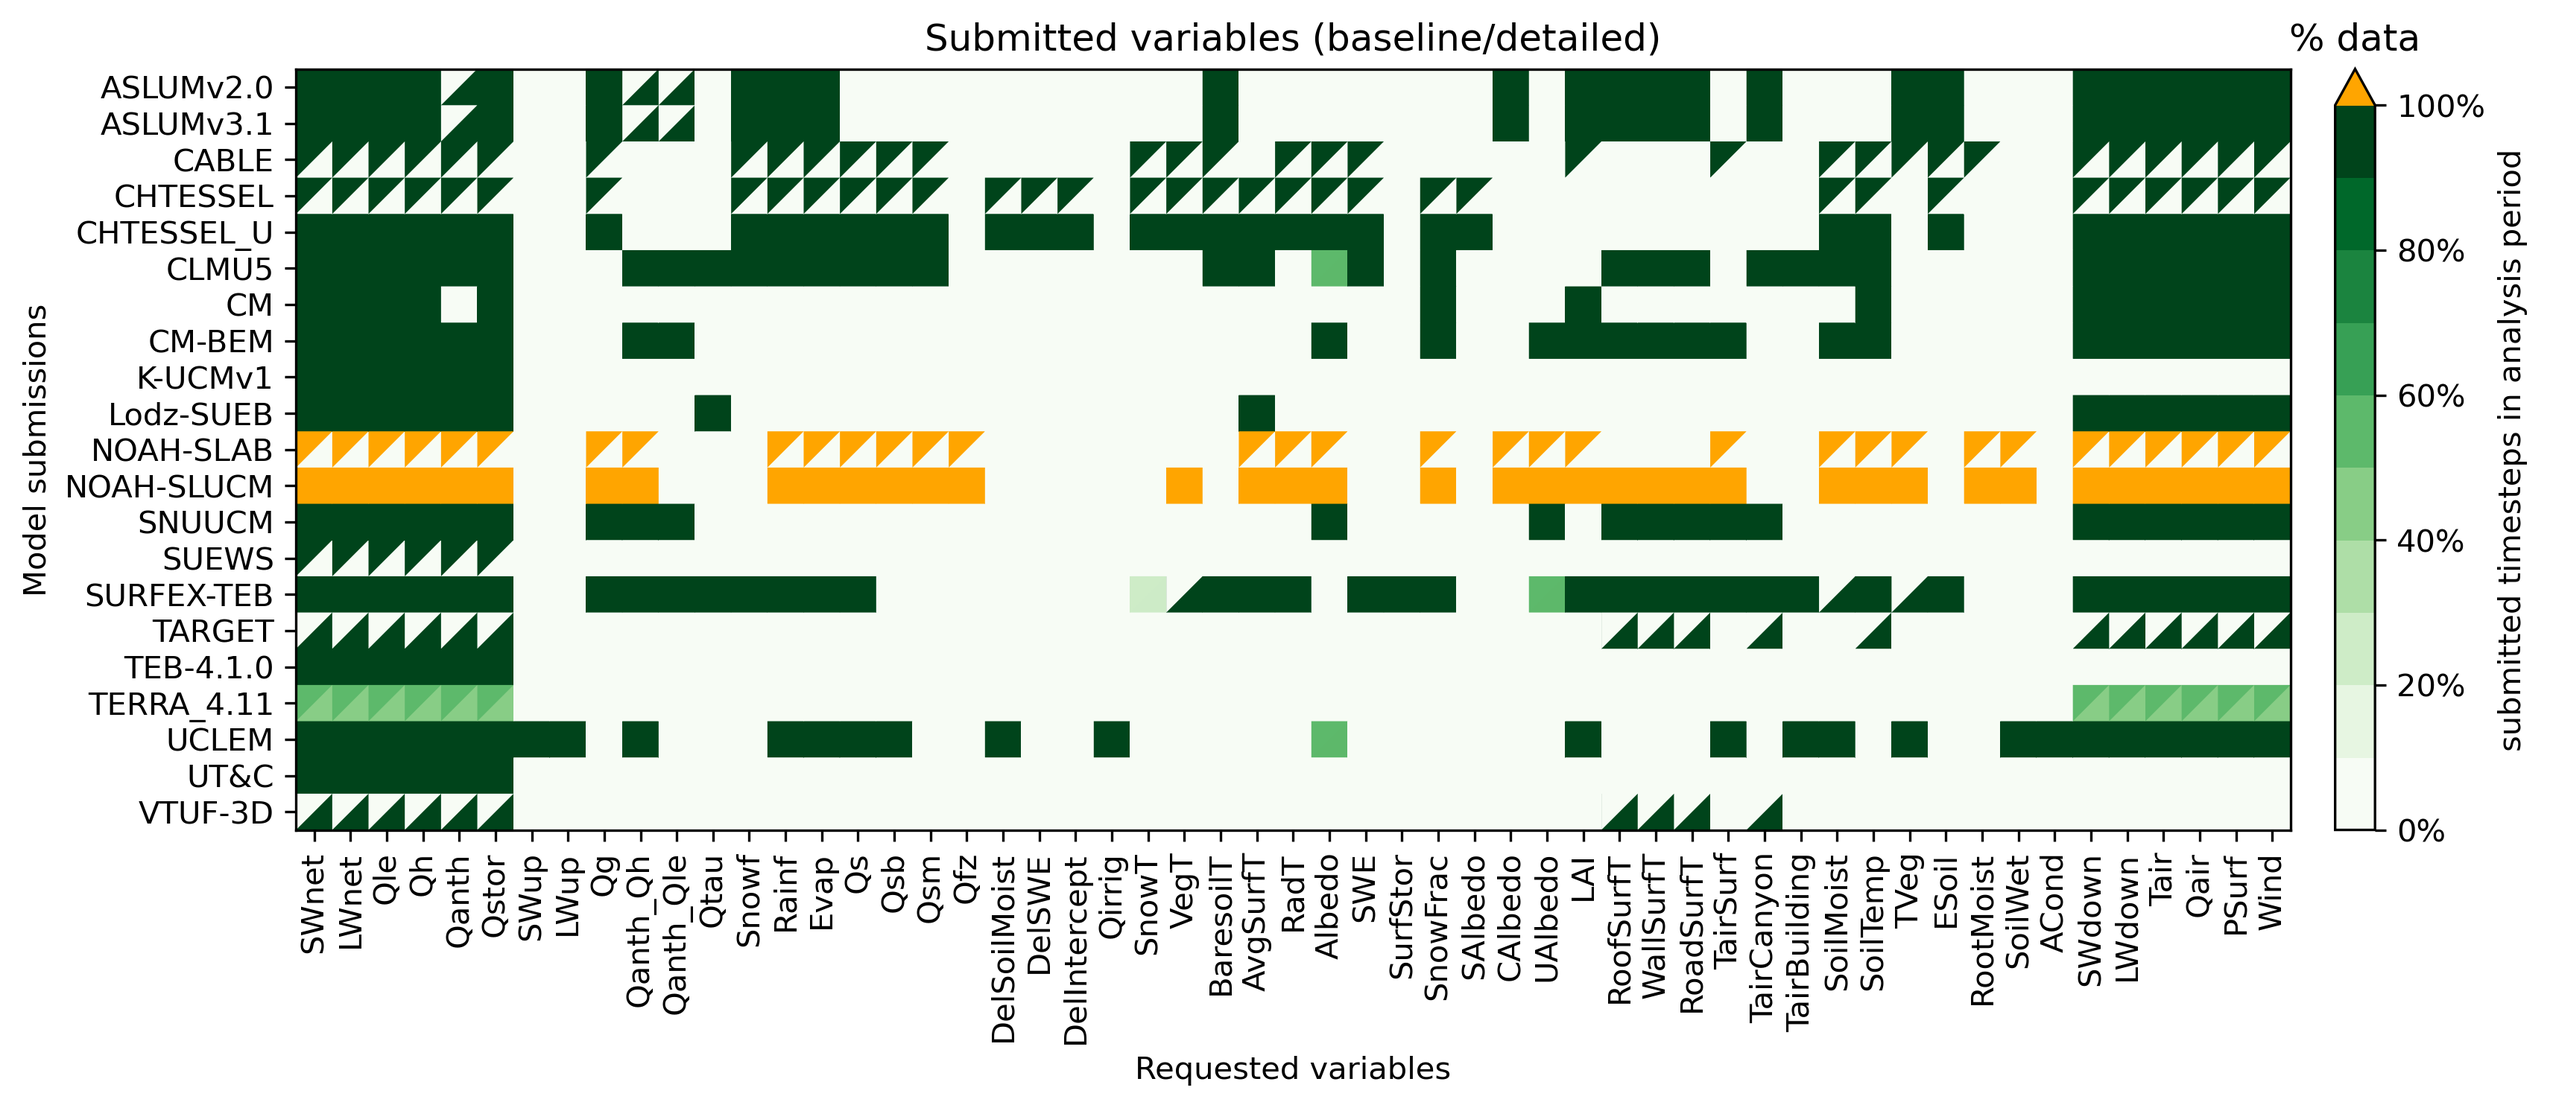
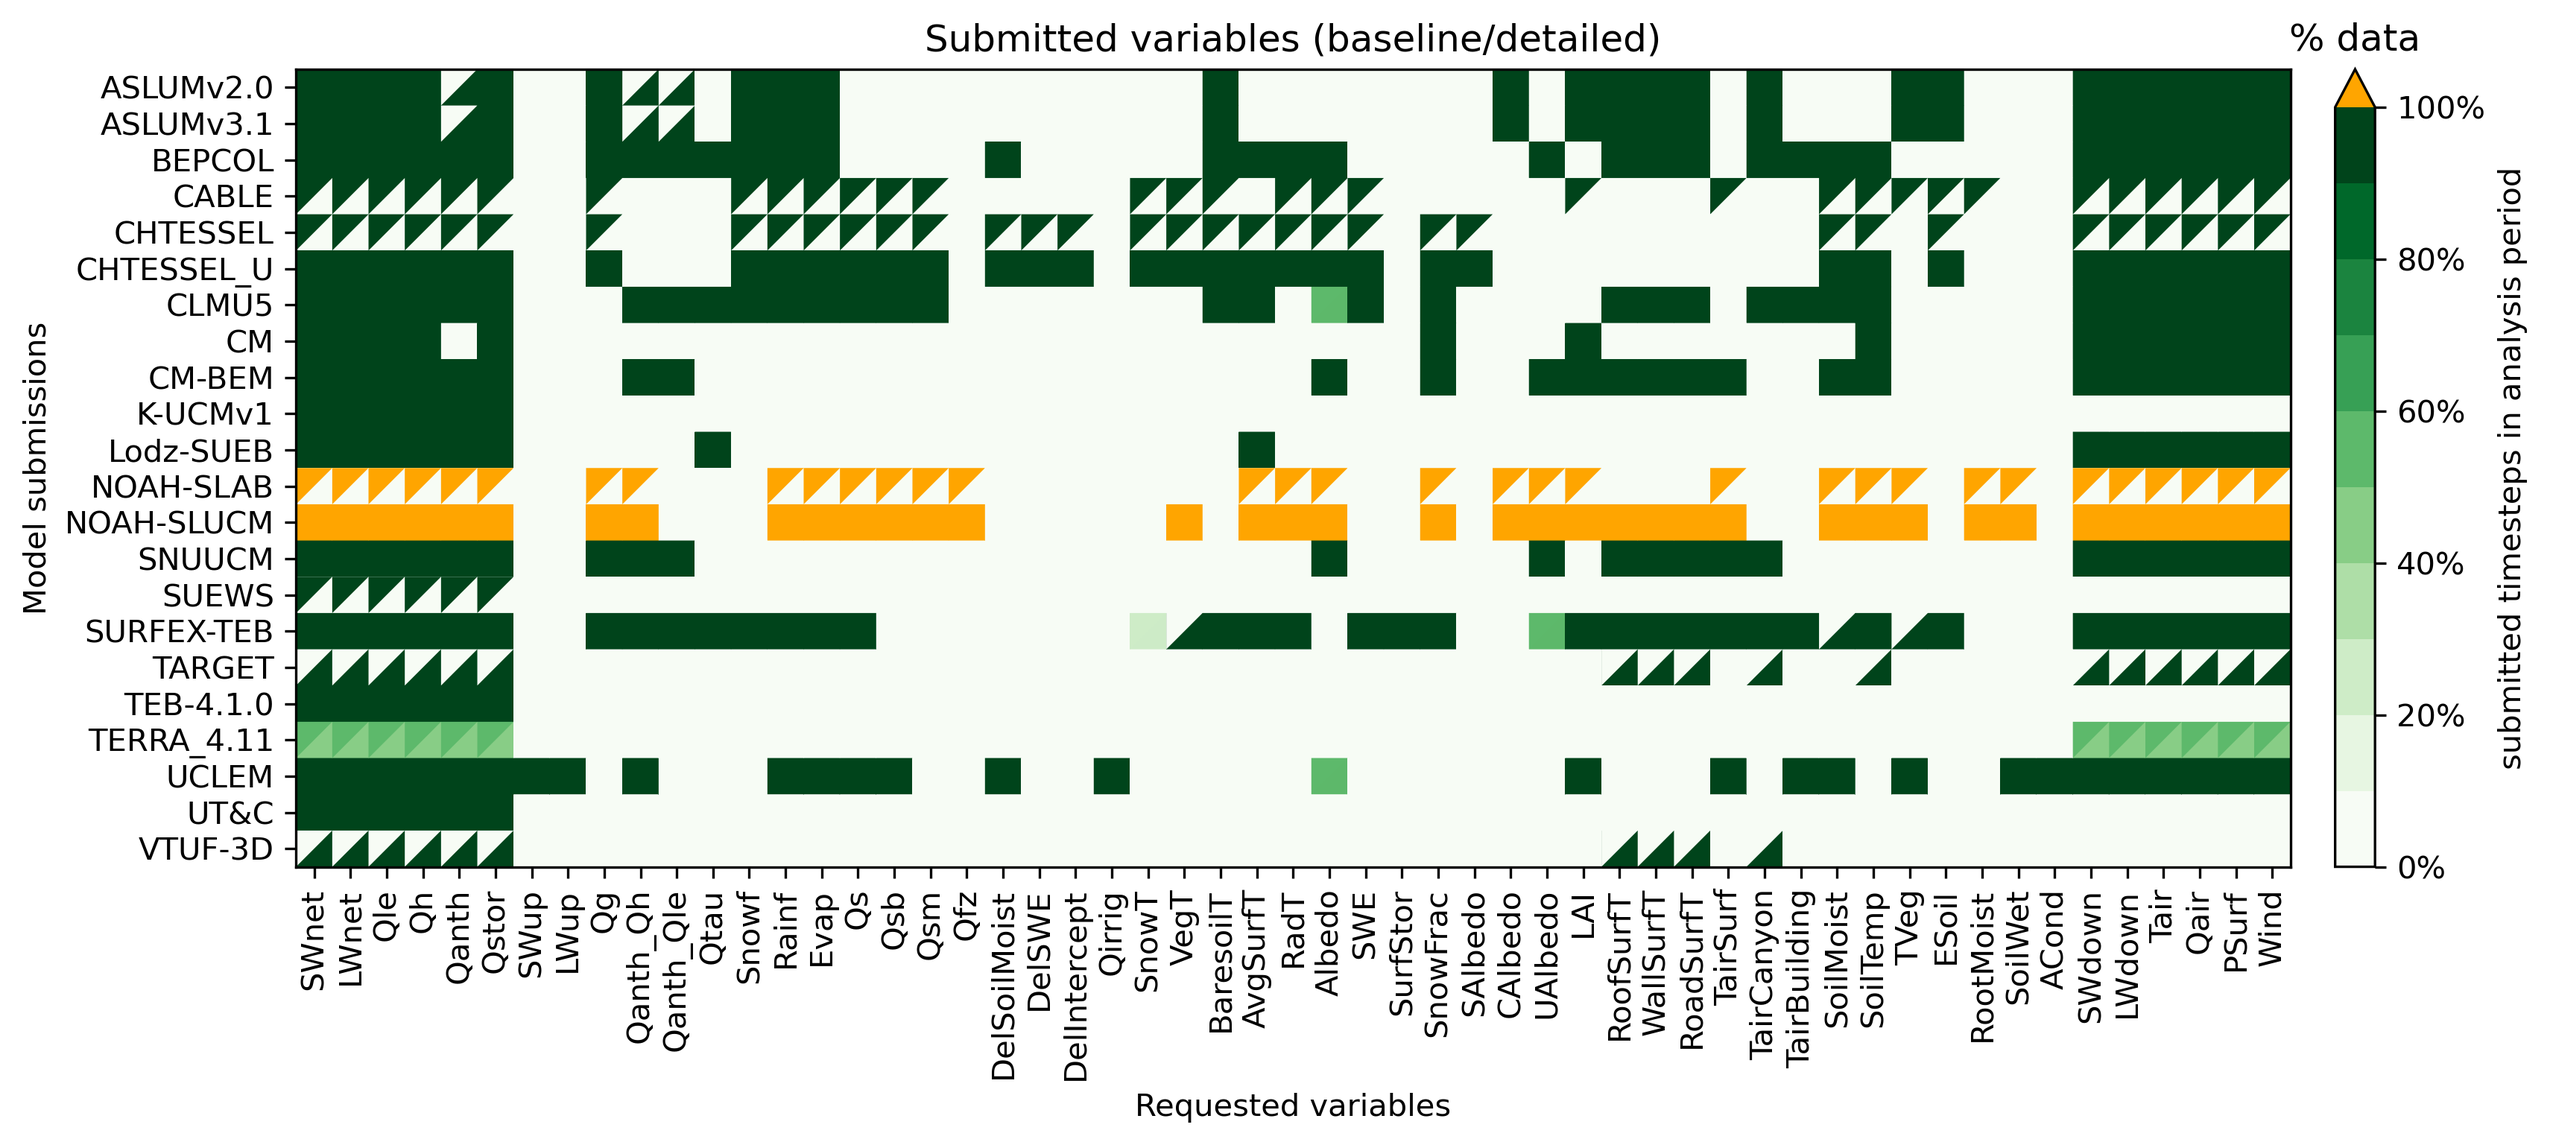
include BEPCOL

diff --git a/modelattrs/variable_definitions.md b/modelattrs/variable_definitions.md
@@ -1,60 +1,60 @@
 # Variable definitions
 
-| short_name   | long_name (positive direction)                      | units   |
-|:-------------|:----------------------------------------------------|:--------|
-| SWnet        | Net shortwave radiation (downward)                  | W/m2    |
-| LWnet        | Net longwave radiation (downward)                   | W/m2    |
-| Qle          | Latent heat flux (upward)                           | W/m2    |
-| Qh           | Sensible heat flux (upward)                         | W/m2    |
-| Qanth        | Anthropogenic heat flux (upward)                    | W/m2    |
-| Qstor        | Net storage heat flux in all materials (increase)   | W/m2    |
-| SWup         | Upwelling shortwave radiation flux (downward)       | W/m2    |
-| LWup         | Upwelling longwave radiation flux (upward)          | W/m2    |
-| Qg           | Ground heat flux (downward)                         | W/m2    |
-| Qanth_Qh     | Anthropogenic sensible heat flux (upward)           | W/m2    |
-| Qanth_Qle    | Anthropogenic latent heat flux (upward)             | W/m2    |
-| Qtau         | Momentum flux (downward)                            | N/m2    |
-| Snowf        | Snowfall rate (downward)                            | kg/m2/s |
-| Rainf        | Rainfall rate (downward)                            | kg/m2/s |
-| Evap         | Total evapotranspiration (upward)                   | kg/m2/s |
-| Qs           | Surface runoff (out of gridcell)                    | kg/m2/s |
-| Qsb          | Subsurface runoff (out of gridcell)                 | kg/m2/s |
-| Qsm          | Snowmelt (solid to liquid)                          | kg/m2/s |
-| Qfz          | Re-freezing of water in the snow (liquid to solid)  | kg/m2/s |
-| DelSoilMoist | Change in soil moisture (increase)                  | kg/m2   |
-| DelSWE       | Change in snow water equivalent (increase)          | kg/m2   |
-| DelIntercept | Change in interception storage (increase)           | kg/m2   |
-| Qirrig       | Anthropogenic water flux from irrigation (increase) | kg/m2/s |
-| SnowT        | Snow surface temperature                            | K       |
-| VegT         | Vegetation canopy temperature                       | K       |
-| BaresoilT    | Temperature of bare soil                            | K       |
-| AvgSurfT     | Average surface temperature (skin)                  | K       |
-| RadT         | Surface radiative temperature                       | K       |
-| Albedo       | Surface albedo                                      | 1       |
-| SWE          | Snow water equivalent                               | kg/m2   |
-| SurfStor     | Surface water storage                               | kg/m2   |
-| SnowFrac     | Snow covered fraction                               | 1       |
-| SAlbedo      | Snow albedo                                         | 1       |
-| CAlbedo      | Vegetation canopy albedo                            | 1       |
-| UAlbedo      | Urban canopy albedo                                 | 1       |
-| LAI          | Leaf area index                                     | 1       |
-| RoofSurfT    | Roof surface temperature (skin)                     | K       |
-| WallSurfT    | Wall surface temperature (skin)                     | K       |
-| RoadSurfT    | Road surface temperature (skin)                     | K       |
-| TairSurf     | Near surface air temperature (2m)                   | K       |
-| TairCanyon   | Air temperature in street canyon (bulk)             | K       |
-| TairBuilding | Air temperature in buildings (bulk)                 | K       |
-| SoilMoist    | Average layer soil moisture                         | kg/m2   |
-| SoilTemp     | Average layer soil temperature                      | K       |
-| TVeg         | Vegetation transpiration                            | kg/m2/s |
-| ESoil        | Bare soil evaporation                               | kg/m2/s |
-| RootMoist    | Root zone soil moisture                             | kg/m2   |
-| SoilWet      | Total soil wetness                                  | 1       |
-| ACond        | Aerodynamic conductance                             | m/s     |
-| SWdown       | Downward shortwave radiation at measurement height  | W/m2    |
-| LWdown       | Downward longwave radiation at measurement height   | W/m2    |
-| Tair         | Air temperature at measurement height               | K       |
-| Qair         | Specific humidity at measurement height             | 1       |
-| PSurf        | Air pressure at measurement height                  | Pa      |
-| Wind         | Wind speed at measurement height                    | m/s     |
-| alb          | implied albedo calculated from forcing              | 1       |
+| short_name   | long_name (positive direction)                      | units   |    min.    |      max.  :|
+|:-------------|:----------------------------------------------------|:--------|-----------:|------------:|
+| SWnet        | Net shortwave radiation (downward)                  | W/m2    |     0      |   1200      |
+| LWnet        | Net longwave radiation (downward)                   | W/m2    |  -500      |    510      |
+| Qle          | Latent heat flux (upward)                           | W/m2    |  -700      |    700      |
+| Qh           | Sensible heat flux (upward)                         | W/m2    |  -600      |    600      |
+| Qanth        | Anthropogenic heat flux (upward)                    | W/m2    |     0      |   1000      |
+| Qstor        | Net storage heat flux in all materials (increase)   | W/m2    |  -800      |    800      |
+| SWup         | Upwelling shortwave radiation flux (downward)       | W/m2    |     0      |   1360      |
+| LWup         | Upwelling longwave radiation flux (upward)          | W/m2    |     0      |   1000      |
+| Qg           | Ground heat flux (downward)                         | W/m2    |  -500      |    500      |
+| Qanth_Qh     | Anthropogenic sensible heat flux (upward)           | W/m2    |     0      |   1000      |
+| Qanth_Qle    | Anthropogenic latent heat flux (upward)             | W/m2    |     0      |   1000      |
+| Qtau         | Momentum flux (downward)                            | N/m2    |  -100      |    100      |
+| Snowf        | Snowfall rate (downward)                            | kg/m2/s |     0      |      0.0085 |
+| Rainf        | Rainfall rate (downward)                            | kg/m2/s |     0      |      0.02   |
+| Evap         | Total evapotranspiration (upward)                   | kg/m2/s |    -0.0003 |      0.0003 |
+| Qs           | Surface runoff (out of gridcell)                    | kg/m2/s |     0      |      5      |
+| Qsb          | Subsurface runoff (out of gridcell)                 | kg/m2/s |     0      |      5      |
+| Qsm          | Snowmelt (solid to liquid)                          | kg/m2/s |     0      |      0.005  |
+| Qfz          | Re-freezing of water in the snow (liquid to solid)  | kg/m2/s |     0      |      0.005  |
+| DelSoilMoist | Change in soil moisture (increase)                  | kg/m2   | -2000      |   2000      |
+| DelSWE       | Change in snow water equivalent (increase)          | kg/m2   | -2000      |   2000      |
+| DelIntercept | Change in interception storage (increase)           | kg/m2   |  -100      |    100      |
+| Qirrig       | Anthropogenic water flux from irrigation (increase) | kg/m2/s |     0      |      0.02   |
+| SnowT        | Snow surface temperature                            | K       |   213      |    280      |
+| VegT         | Vegetation canopy temperature                       | K       |   213      |    333      |
+| BaresoilT    | Temperature of bare soil                            | K       |   213      |    343      |
+| AvgSurfT     | Average surface temperature (skin)                  | K       |   213      |    333      |
+| RadT         | Surface radiative temperature                       | K       |   213      |    353      |
+| Albedo       | Surface albedo                                      | 1       |     0      |      1      |
+| SWE          | Snow water equivalent                               | kg/m2   |     0      |   2000      |
+| SurfStor     | Surface water storage                               | kg/m2   |     0      |   2000      |
+| SnowFrac     | Snow covered fraction                               | 1       |     0      |      1      |
+| SAlbedo      | Snow albedo                                         | 1       |     0      |      1      |
+| CAlbedo      | Vegetation canopy albedo                            | 1       |     0      |      1      |
+| UAlbedo      | Urban canopy albedo                                 | 1       |     0      |      1      |
+| LAI          | Leaf area index                                     | 1       |     0      |     15      |
+| RoofSurfT    | Roof surface temperature (skin)                     | K       |   213      |    343      |
+| WallSurfT    | Wall surface temperature (skin)                     | K       |   213      |    343      |
+| RoadSurfT    | Road surface temperature (skin)                     | K       |   213      |    343      |
+| TairSurf     | Near surface air temperature (2m)                   | K       |   213      |    333      |
+| TairCanyon   | Air temperature in street canyon (bulk)             | K       |   213      |    333      |
+| TairBuilding | Air temperature in buildings (bulk)                 | K       |   253      |    333      |
+| SoilMoist    | Average layer soil moisture                         | kg/m2   |     0      |   2000      |
+| SoilTemp     | Average layer soil temperature                      | K       |   213      |    333      |
+| TVeg         | Vegetation transpiration                            | kg/m2/s |    -0.0003 |      0.0003 |
+| ESoil        | Bare soil evaporation                               | kg/m2/s |    -0.0003 |      0.0003 |
+| RootMoist    | Root zone soil moisture                             | kg/m2   |     0      |   2000      |
+| SoilWet      | Total soil wetness                                  | 1       |    -0.2    |      1.2    |
+| ACond        | Aerodynamic conductance                             | m/s     |     0      |      1      |
+| SWdown       | Downward shortwave radiation at measurement height  | W/m2    |     0      |   1360      |
+| LWdown       | Downward longwave radiation at measurement height   | W/m2    |     0      |    750      |
+| Tair         | Air temperature at measurement height               | K       |   213      |    333      |
+| Qair         | Specific humidity at measurement height             | 1       |     0      |      0.03   |
+| PSurf        | Air pressure at measurement height                  | Pa      |  5000      | 110000      |
+| Wind         | Wind speed at measurement height                    | m/s     |   -75      |     75      |
+| alb          | implied albedo calculated from forcing              | 1       |     0      |      1      |

diff --git a/modelattrs/BEPCOL_AU-Preston_baseline_attrs.md b/modelattrs/BEPCOL_AU-Preston_baseline_attrs.md
@@ -1,0 +1,26 @@
+|                           | baseline                                                    |
+|:--------------------------|:------------------------------------------------------------|
+| file                      | BEPCOL_AU-Preston_b1_1_BEPCOL_AU-Preston_baseline_v1_mjl.nc |
+| title                     | BEPCOL model output for the Urban-PLUMBER project           |
+| site                      | AU-Preston                                                  |
+| experiment                | baseline                                                    |
+| institution               | Tecnalia, CIEMAT                                            |
+| primary_contact           | andres.simon1982@gmail.com                                  |
+| secondary_contact         | alberto.martilli@ciemat.es                                  |
+| model                     | BEPCOL                                                      |
+| source                    | BEPCOL v1                                                   |
+| references                | NA                                                          |
+| repository                | NA                                                          |
+| site_experience           | No                                                          |
+| additional_data           | WUDAPT and Singapore                                        |
+| comment                   | NA                                                          |
+| contents                  | NA                                                          |
+| time_coverage_start       | 302929200                                                   |
+| time_coverage_end         | 375451200                                                   |
+| time_analysis_start       | 334468800                                                   |
+| local_utc_offset_hours    | 10                                                          |
+| timestep_interval_seconds | 1800                                                        |
+| timestep_number_spinup    | 17521                                                       |
+| timestep_number_analysis  | 22772                                                       |
+| latitude                  | -37.7306                                                    |
+| longitude                 | 145.0145                                                    |

diff --git a/modelattrs/BEPCOL_AU-Preston_detailed_attrs.md b/modelattrs/BEPCOL_AU-Preston_detailed_attrs.md
@@ -1,0 +1,26 @@
+|                           | detailed                                                    |
+|:--------------------------|:------------------------------------------------------------|
+| file                      | BEPCOL_AU-Preston_d1_1_BEPCOL_AU-Preston_detailed_v1_mjl.nc |
+| title                     | BEPCOL model output for the Urban-PLUMBER project           |
+| site                      | AU-Preston                                                  |
+| experiment                | detailed                                                    |
+| institution               | Tecnalia, CIEMAT                                            |
+| primary_contact           | andres.simon1982@gmail.com                                  |
+| secondary_contact         | alberto.martilli@ciemat.es                                  |
+| model                     | BEPCOL                                                      |
+| source                    | BEPCOL v1                                                   |
+| references                | NA                                                          |
+| repository                | NA                                                          |
+| site_experience           | No                                                          |
+| additional_data           | WUDAPT and Singapore                                        |
+| comment                   | NA                                                          |
+| contents                  | NA                                                          |
+| time_coverage_start       | 302929200                                                   |
+| time_coverage_end         | 375451200                                                   |
+| time_analysis_start       | 334468800                                                   |
+| local_utc_offset_hours    | 10                                                          |
+| timestep_interval_seconds | 1800                                                        |
+| timestep_number_spinup    | 17521                                                       |
+| timestep_number_analysis  | 22772                                                       |
+| latitude                  | -37.7306                                                    |
+| longitude                 | 145.0145                                                    |

diff --git a/modelattrs/index.md b/modelattrs/index.md
@@ -17,6 +17,7 @@ Metadata as submitted for baseline and detailed experiments
 |:-----------|:------------------------------------------------------|:------------------------------------------------------|
 | ASLUMv2.0  | [ASLUMv2.0](ASLUMv2.0_AU-Preston_baseline_attrs.md)   | [ASLUMv2.0](ASLUMv2.0_AU-Preston_detailed_attrs.md)   |
 | ASLUMv3.1  | [ASLUMv3.1](ASLUMv3.1_AU-Preston_baseline_attrs.md)   | [ASLUMv3.1](ASLUMv3.1_AU-Preston_detailed_attrs.md)   |
+| BEPCOL     | [BEPCOL](BEPCOL_AU-Preston_baseline_attrs.md)         | [BEPCOL](BEPCOL_AU-Preston_detailed_attrs.md)         |
 | CABLE      | [CABLE](CABLE_AU-Preston_baseline_attrs.md)           |                                                       |
 | CHTESSEL_U | [CHTESSEL_U](CHTESSEL_U_AU-Preston_baseline_attrs.md) | [CHTESSEL_U](CHTESSEL_U_AU-Preston_detailed_attrs.md) |
 | CHTESSEL   | [CHTESSEL](CHTESSEL_AU-Preston_baseline_attrs.md)     |                                                       |
